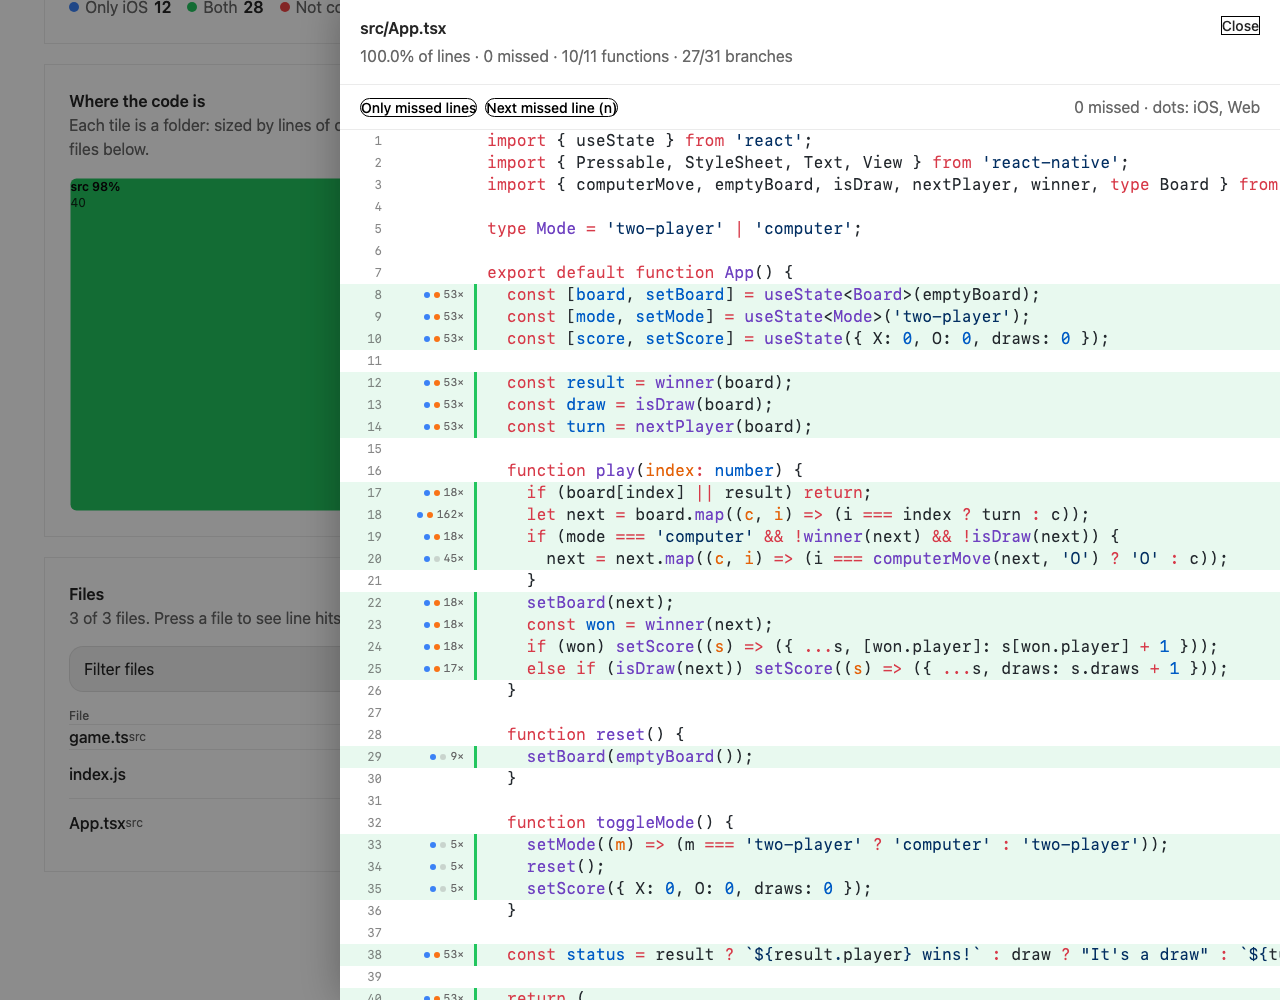
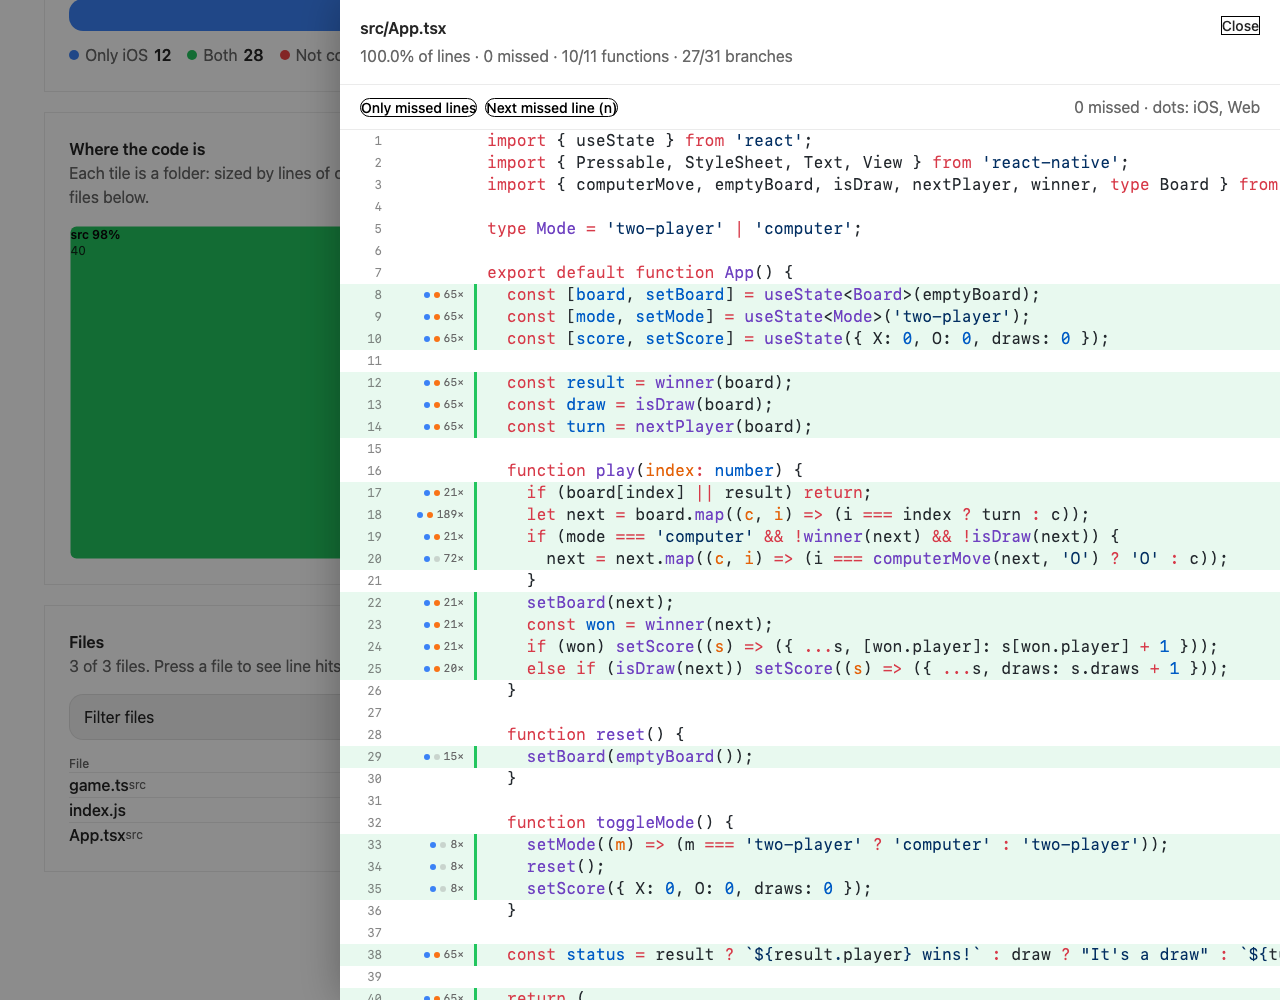
fix(report): ring readout, KPI grid, percent column wrapping; refresh screenshots (iOS + web)

diff --git a/packages/report/src/components/Files.tsx b/packages/report/src/components/Files.tsx
@@ -48,7 +48,7 @@ export function Files({ data, files, tab, folder, onFolder, onOpen }: Props) {
   }, [files, tab, q, folder, gapsOnly, sort]);
 
   const showPlatforms = tab === 'all' && data.platforms.length > 1;
-  const columns = [{ flex: 4 }, { flex: 2 }, { flex: 1, align: 'end' as const }, { flex: 1, align: 'end' as const }, ...(showPlatforms ? [{ flex: 1 }] : [])];
+  const columns = [{ flex: 4 }, { flex: 3 }, { flex: 1, align: 'end' as const }, { flex: 1, align: 'end' as const }, ...(showPlatforms ? [{ flex: 1 }] : [])];
   const head = (key: SortKey, label: string) => (
     <Table.Head
       key={key}
@@ -106,10 +106,10 @@ export function Files({ data, files, tab, folder, onFolder, onOpen }: Props) {
                 </Table.Cell>
                 <Table.Cell>
                   <View className="flex-row items-center gap-2">
-                    <View className="flex-1">
+                    <View className="flex-1" style={{ minWidth: 40 }}>
                       <Progress value={value} />
                     </View>
-                    <Text className="w-10 text-right text-foreground">{value.toFixed(0)}%</Text>
+                    <Text className="w-14 shrink-0 text-right text-foreground" numberOfLines={1}>{value.toFixed(0)}%</Text>
                   </View>
                 </Table.Cell>
                 <Table.Cell>{fmt(sums.l[1] - sums.l[0])}</Table.Cell>

diff --git a/packages/report/src/components/Hero.tsx b/packages/report/src/components/Hero.tsx
@@ -28,7 +28,18 @@ export function Hero({ files, tab }: { files: FileEntry[]; tab: Tab }) {
           strokeWidth={16}
         >
           <RingChart.Ring index={0} />
-          <RingChart.Center />
+          <RingChart.Center>
+            {() => (
+              <>
+                <Text className="text-3xl font-semibold text-foreground" numberOfLines={1}>
+                  {value.toFixed(1)}%
+                </Text>
+                <Text className="text-xs text-muted-foreground" numberOfLines={1}>
+                  line coverage
+                </Text>
+              </>
+            )}
+          </RingChart.Center>
         </RingChart>
         <Text className="mt-3 text-center text-muted-foreground">
           {fmt(lines[0])} of {fmt(lines[1])} lines{'\n'}
@@ -40,7 +51,7 @@ export function Hero({ files, tab }: { files: FileEntry[]; tab: Tab }) {
           const ratio = totals(files, tab, key);
           const v = pct(ratio);
           return (
-            <Card key={key} className="flex-1 gap-2 p-4" style={{ minWidth: 200 }}>
+            <Card key={key} className="gap-2 p-4" style={{ flexGrow: 1, flexBasis: '47%', minWidth: 200 }}>
               <Kpi>
                 <Kpi.Header>
                   <Kpi.Title>{label}</Kpi.Title>
